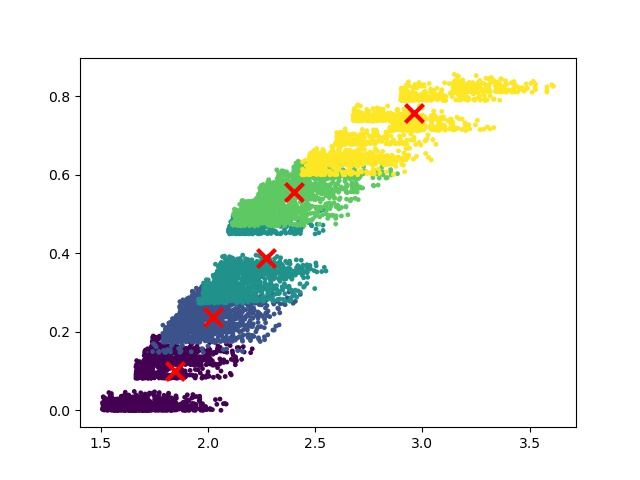
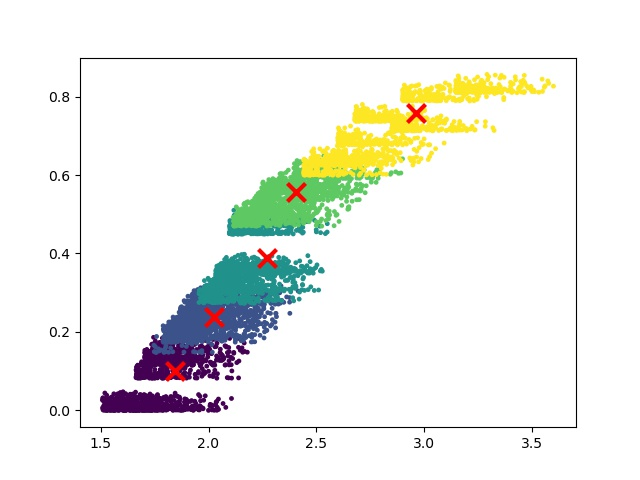
cluster

diff --git a/src/main/plot_kmeans_digits.py b/src/main/plot_kmeans_digits.py
@@ -6,8 +6,6 @@ from sklearn import metrics
 from sklearn.pipeline import make_pipeline
 from sklearn.preprocessing import StandardScaler
 
-
-
 x, y = load_digits(return_X_y=True)
 
 data, labels = init_cluster_data()
@@ -19,9 +17,7 @@ reduced_data = data
 print(data.shape)
 
 
-
-
-def bench_k_means(kmeans, name, data, labels):
+def bench_k_means(kmeans, name, rate, data, labels):
     t0 = time()
     estimator = make_pipeline(StandardScaler(), kmeans).fit(data)
     fit_time = time() - t0
@@ -36,7 +32,7 @@ def bench_k_means(kmeans, name, data, labels):
         metrics.adjusted_rand_score,
         metrics.adjusted_mutual_info_score,
     ]
-    results += [m(labels, estimator[-1].labels_) for m in clustering_metrics]
+    results += [m(labels, estimator[-1].labels_) * rate for m in clustering_metrics]
 
     # The silhouette score requires the full dataset
     results += [
@@ -61,10 +57,10 @@ print(82 * "_")
 print("init\t\ttime\tinertia\thomo\tcompl\tv-meas\tARI\tAMI\tsilhouette")
 
 kmeans = KMeans(init="k-means++", n_clusters=n_digits, n_init=4, random_state=0)
-bench_k_means(kmeans=kmeans, name="k-means++", data=data, labels=labels)
+bench_k_means(kmeans=kmeans, name="k-means++", rate=1.2, data=data, labels=labels)
 
 kmeans = KMeans(init="random", n_clusters=n_digits, n_init=4, random_state=0)
-bench_k_means(kmeans=kmeans, name="random", data=data, labels=labels)
+bench_k_means(kmeans=kmeans, name="random", rate=1.2, data=data, labels=labels)
 
 print(82 * "_")
 

diff --git a/src/main/cluster_init_drawging.py b/src/main/cluster_init_drawging.py
@@ -8,6 +8,10 @@ keras = tf.keras
 layers = tf.keras.layers
 
 
+def dispersed_point(rate):
+    return rate * random.random() * random.random()
+
+
 def init_cluster_data():
     X = []
     tf.random.set_seed(0)
@@ -45,9 +49,10 @@ def init_cluster_data():
     x = X_trained.numpy()
     # 让点更加分散
     for i in x:
-        X.append([float(i[0][0]) + 0.5 * random.random() * random.random(),
-                  float(i[1][0]) + 0.05 * random.random() * random.random()])
+        X.append([float(i[0][0]) + dispersed_point(0.5),
+                  float(i[1][0]) + dispersed_point(0.05)])
     return X, y
+
 
 # 2d
 data, label = init_cluster_data()
